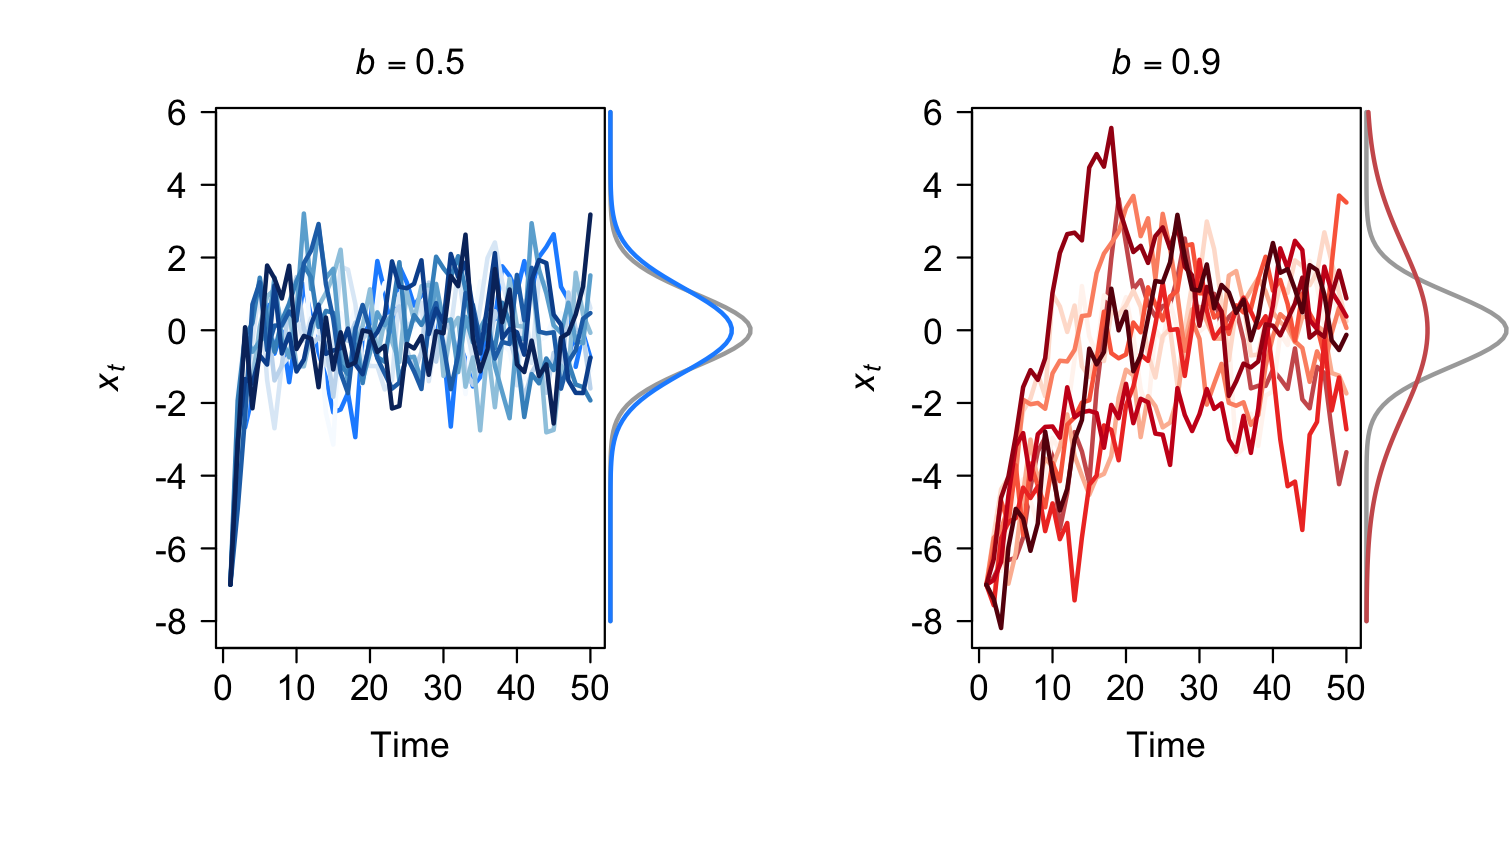
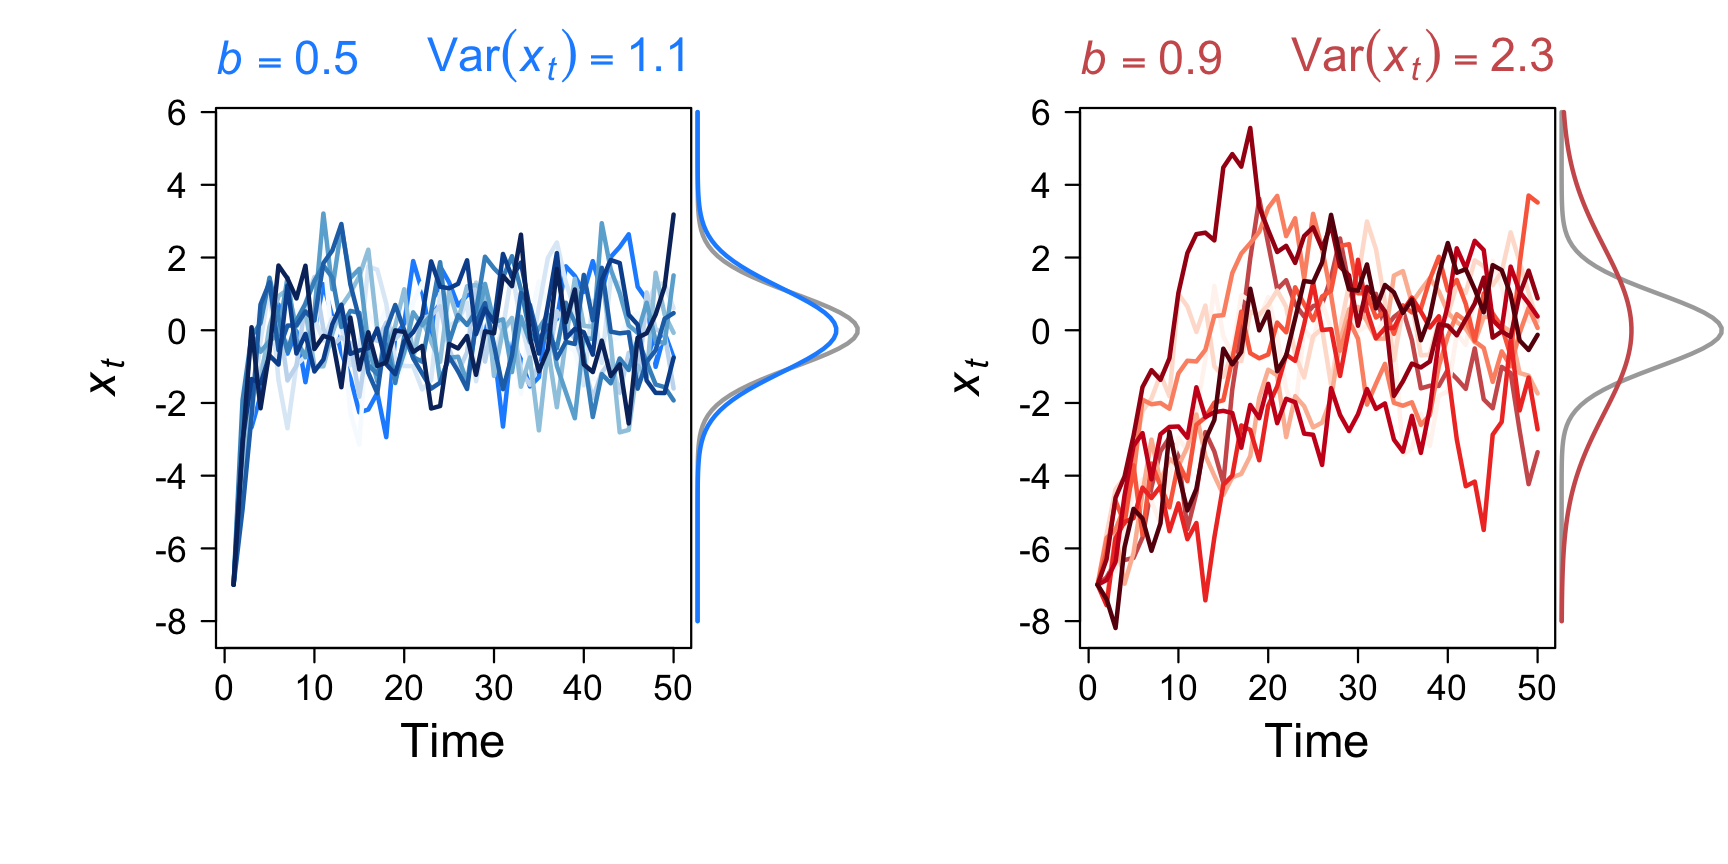
cleaned up stationary dist

diff --git a/Scheuerell_WSN_2024.html b/Scheuerell_WSN_2024.html
@@ -301,23 +301,23 @@ c_{P,1} &amp; \dots &amp; c_{P,P}
 
 class: center, middle, inverse
 
-# Metrics of stability
+# Estimating community stability
 
 
 ---
 
 # Let's consider 3 metrics of stability
 
-.blue[
-## Rate of return to equilibrium
+&gt; ## .blue[
+Rate of return
 ]
 
-.green[
-## Reactivity
+&gt; ## .green[
+Reactivity
 ]
 
-.orange[
-## Variance of the stationary distribution
+&gt; ## .orange[
+Variance of the stationary distribution
 ]
 
 
@@ -326,43 +326,52 @@ class: center, middle, inverse
 class: frimg
 background-image: url(figs/May_1972_stability.png)
 background-position: 50% 70%
-background-size: 70%
+background-size: 60%
 
 # Rate of return to equilibrium
 
-.blue[
-### In deterministic models, equilibria are a point or stable limit cycle
+### .blue.center[
+In deterministic models, equilibria are a point or stable limit cycle
 ]
 
-.gray.citation[May (1972) _Science_]
+### .gray.citation[May (1972) _Science_]
 
 
 ---
 
 # Rate of return to equilibrium
 
-.blue[
-### In stochastic models, the equilibrium is a _stationary distribution_
+### .blue[
+In stochastic models, the equilibrium is a _stationary distribution_
 ]
 
 
 ---
 
-# Univariate stationary distribution
+# Consider a simple autoregressive model
 
-.blue[
-### When |b| &lt; 1, an AR(1) process is "stationary"
-]
+`$$\LARGE x_t = b x_{t-1} + w_t$$`
 
-`$$x_t = r_{\max} + b x_{t-1} + w_t \\
-~ \\
-\Downarrow \\
-~ \\
-x_{\infty} \sim \text{N}(\mu_{\infty}, \sigma_{\infty}) \\
-~ \\
-\mu_{\infty} = \frac{r_{\max}}{1 - b} \\
-~ \\
-\sigma_{\infty} = \frac{q}{1 - b^2}$$`
+### .center[where]
+
+`$$\LARGE |b| &lt; 1; ~~ w_t \sim \text{N}(0, q)$$`
+
+
+---
+
+# Consider a simple autoregressive model
+
+`$$\LARGE x_t = b x_{t-1} + w_t$$`
+
+### .center[where]
+
+`$$\LARGE 0 &lt; b &lt; 1; ~~ w_t \sim \text{N}(0, q)$$`
+
+### .blue.center[It turns out that]
+
+`$$\LARGE \text{Var}(x_t) = \frac{\text{Var}(w_t)}{1 - b}$$`
+
+### .blue.center[which gets larger as _b_ gets larger]
 
 
 ---
@@ -370,56 +379,6 @@ x_{\infty} \sim \text{N}(\mu_{\infty}, \sigma_{\infty}) \\
 # Univariate stationary distribution
 
 &lt;img src="Scheuerell_WSN_2024_files/figure-html/uni_stationary-1.png" width="100%" style="display: block; margin: auto;" /&gt;
-
-
----
-
-# Univariate transition distribution
-
-.blue[
-### The _transition distribution_ is the conditional probability distribution for `\(x_t\)` at any time `\(t\)` given `\(x_0\)`
-]
-
-`$$\mu_t = \mu_{\infty} + b^t \left( x_0 - \mu_{\infty} \right)\\
-~ \\
-\sigma_t = \sigma_{\infty}[1 - (b^2)^t]$$`
-
-
----
-
-# Univariate transition distribution
-
-.blue[
-### The _transition distribution_ is the conditional probability distribution for `\(x_t\)` at any time `\(t\)` given `\(x_0\)`
-]
-
-`$$\mu_t = \mu_{\infty} + b^t \left( x_0 - \mu_{\infty} \right)\\
-~ \\
-\sigma_t = \sigma_{\infty}[1 - (b^2)^t]$$`
-
-.orange[
-### Note: the rate of convergence is governed by `\(b\)`
-]
-
-
----
-
-# Univariate transition distribution
-
-&lt;img src="Scheuerell_WSN_2024_files/figure-html/ex_trans_dist-1.png" width="100%" style="display: block; margin: auto;" /&gt;
-
-
----
-
-# Transition versus stationary
-
-.blue[
-### The _transition_ distribution is where we are now
-]
-
-.green[
-### The _stationary_ distribution is where we are headed
-]
 
 
 ---
